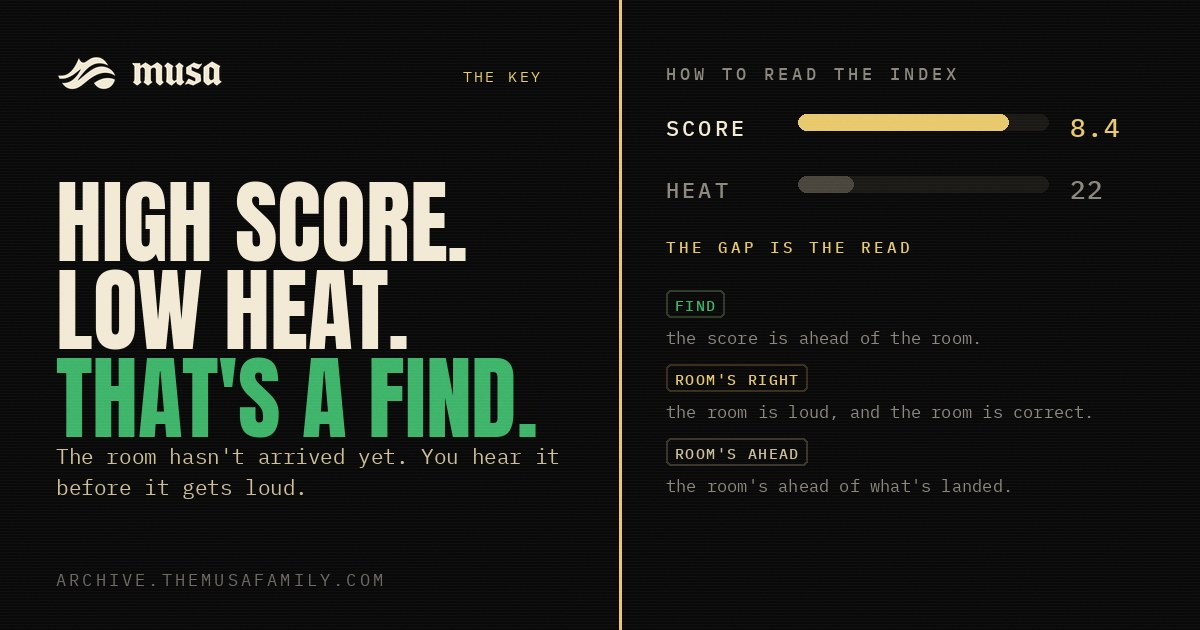
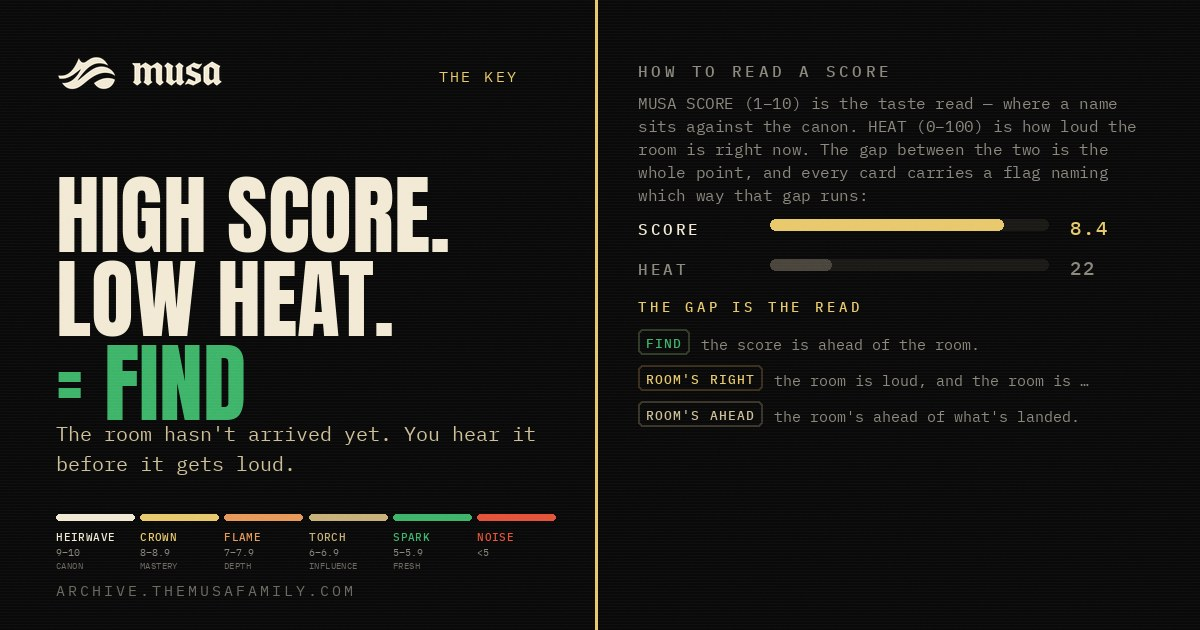
THE KEY card carries the whole key, hero payoff is = FIND
The card is slide two behind an entry post, so it has to survive being the
only thing a stranger reads. It now carries the full key in the site's own
wording rather than an abridged version of it:

- hero payoff is now = FIND, in the same green as the FIND chip, so a swipe
  reads as an equation resolving rather than a sentence. Scores posted are
  overwhelmingly high, so the reader should land on the compliment.
- adds the MUSA SCORE / HEAT definitions verbatim from THE KEY in index.html,
  the NOISE floor and BENCHMARK line, and the six-tier ladder drawn as a
  colour ladder so the score on the card in front of it lands somewhere.
- keeps the drawn score-vs-heat gap and all three flag glosses.
- the OG twin gains the definitions and the tier ladder to match.
- share.py: pinned block prose says the card is the whole key.

diff --git a/share/index.html b/share/index.html
@@ -175,7 +175,7 @@ footer b{font-family:var(--mono);font-size:9px;color:#b8b09c;letter-spacing:.2em
   </a>
   <div class="kbody">
     <div class="klab">THE KEY · SLIDE TWO</div>
-    <div class="ktxt">Save this and run it behind any card. <b>A high score sitting on low heat is a FIND</b> — the work already holds up, the room hasn't arrived, and you're getting put onto it before it gets loud. That gap is the whole board.</div>
+    <div class="ktxt">Save this and run it behind any card — it carries the whole key: score, heat, all three flags and the tier ladder. <b>High score, low heat = FIND</b>: the work already holds up, the room hasn't arrived, and you're getting put onto it before it gets loud. That gap is the whole board.</div>
     <div class="kacts">
       <a href="/cards/the-key-sq.jpg" download="musa-the-key-sq.jpg">SAVE 1080×1350</a>
       <a href="/cards/the-key-og.jpg" download="musa-the-key-og.jpg">SAVE 1200×630</a>

diff --git a/build/cards.py b/build/cards.py
@@ -371,11 +371,33 @@ def _save(im, out):
 # premise cold: the gap between SCORE and HEAT is the read, and a high score
 # sitting on low heat is the point of the whole board.
 
+
+# ── THE KEY card ────────────────────────────────────────────────────────────
+# The whole key, carried on one saveable image. Slide two behind any entry
+# card: a reader who has never seen the board should be able to swipe once and
+# understand that a FIND is the compliment, not the consolation.
+#
+# The prose below is the site's own wording, verbatim from THE KEY in
+# index.html. It is duplicated here on purpose and rebuilt on every publish
+# run, so the card can never drift from the definitions it teaches.
+
 KEY_FLAGS = [
     ("FIND",         GREEN, "#2f3a28", "the score is ahead of the room."),
     ("ROOM'S RIGHT", AMBER, "#3a2f1c", "the room is loud, and the room is correct."),
     ("ROOM'S AHEAD", SAND,  "#3a352a", "the room's ahead of what's landed."),
 ]
+
+KEY_TIERS = [("HEIRWAVE", "9–10", "CANON"), ("CROWN", "8–8.9", "MASTERY"),
+             ("FLAME", "7–7.9", "DEPTH"),   ("TORCH", "6–6.9", "INFLUENCE"),
+             ("SPARK", "5–5.9", "FRESH"),   ("NOISE", "<5", "")]
+
+KEY_PROSE = ("MUSA SCORE (1–10) is the taste read — where a name sits against the canon. "
+             "HEAT (0–100) is how loud the room is right now. The gap between the two is the "
+             "whole point, and every card carries a flag naming which way that gap runs:")
+KEY_FLOOR = ("A score under 5 is NOISE outright. BENCHMARK names the nearest neighbour "
+             "in the 50, so no score floats.")
+KEY_HOOK  = ("The work already holds up. The room hasn't arrived yet. You're getting put "
+             "onto it before it gets loud, which is the entire point of the board.")
 
 
 def _key_masthead(im, d, W, M, y, right="THE KEY", hh=40, wmh=32, fs=17):
@@ -385,24 +407,40 @@ def _key_masthead(im, d, W, M, y, right="THE KEY", hh=40, wmh=32, fs=17):
     tracked(d, (W - M - tw(d, right, fm, 2.4), y + int(hh * 0.3)), right, fm, AMBER, 2.4)
 
 
-def _gapdemo(d, x, y, boxw):
+def _gapdemo(d, x, y, boxw, step=62, labfs=22, valfs=26, barh=16):
     """The premise, drawn rather than argued: a tall score over a short heat bar."""
-    fl = font(MONOM, 22); fv = font(MONOM, 26)
+    fl = font(MONOM, labfs); fv = font(MONOM, valfs)
     barx, barw = x + 132, boxw - 132 - 96
     for i, (lab, val, pct, col) in enumerate(
             [("SCORE", "8.4", 84, AMBER), ("HEAT", "22", 22, MUT)]):
-        yy = y + i * 62
+        yy = y + i * step
         tracked(d, (x, yy + 3), lab, fl, MUT if i else FG, 3.0)
-        d.rounded_rectangle([barx, yy + 4, barx + barw, yy + 20], radius=8, fill="#1c1a16")
+        d.rounded_rectangle([barx, yy + 4, barx + barw, yy + 4 + barh], radius=8, fill="#1c1a16")
         fw = int(barw * pct / 100)
-        d.rounded_rectangle([barx, yy + 4, barx + fw, yy + 20], radius=8,
+        d.rounded_rectangle([barx, yy + 4, barx + fw, yy + 4 + barh], radius=8,
                             fill=AMBER if i == 0 else "#4a463d")
         tracked(d, (barx + barw + 22, yy), val, fv, col, 1.4)
-    return y + 124
+    return y + step * 2
+
+
+def _tierladder(d, x, y, w, nfs=13, rfs=12, dfs=11, gap=9):
+    """The six tiers as a ladder, so the score on the card lands somewhere."""
+    n = len(KEY_TIERS)
+    seg = (w - gap * (n - 1)) / n
+    fn, fr, fd = font(MONOM, nfs), font(MONO, rfs), font(MONO, dfs)
+    for i, (name, rng, desc) in enumerate(KEY_TIERS):
+        sx = int(x + i * (seg + gap))
+        d.rounded_rectangle([sx, y, sx + int(seg), y + 6], radius=3,
+                            fill=TIER_COLOR[name])
+        tracked(d, (sx, y + 15), name, fn, TIER_COLOR[name], 0.9)
+        d.text((sx, y + 15 + nfs + 5), rng, font=fr, fill=MUT)
+        if desc:
+            d.text((sx, y + 15 + nfs + 5 + rfs + 4), desc, font=fd, fill=MUT2)
+    return y + 15 + nfs + 5 + rfs + 4 + dfs
 
 
 def keycard(out, W=1080, H=1350):
-    M = 68
+    M = 64
     im = Image.new("RGB", (W, H), BG)
     d = ImageDraw.Draw(im)
     boxw = W - 2 * M
@@ -410,39 +448,53 @@ def keycard(out, W=1080, H=1350):
     _key_masthead(im, d, W, M, M)
     d.line([(M, M + 74), (W - M, M + 74)], fill=AMBER, width=3)
 
-    y = M + 118
-    tracked(d, (M, y), "HOW TO READ THE INDEX", font(MONOM, 21), MUT, 4.6)
+    y = M + 108
+    tracked(d, (M, y), "HOW TO READ A SCORE", font(MONOM, 20), MUT, 4.6)
 
-    # Hero. Anton, tight leading, the payoff line in green.
-    y += 58
-    fh = font(ANTON, 140)
-    for line, col in [("HIGH SCORE.", FG), ("LOW HEAT.", FG), ("THAT'S A FIND.", GREEN)]:
+    # Hero. Anton, tight leading, the payoff line in green — the same green as
+    # the FIND chip further down, so the eye ties the two together unprompted.
+    y += 44
+    fh = font(ANTON, 106)
+    for line, col in [("HIGH SCORE.", FG), ("LOW HEAT.", FG), ("= FIND", GREEN)]:
         d.text((M, y), line, font=fh, fill=col)
-        y += 132
+        y += 94
 
-    y += 46
-    fb = font(MONO, 27)
-    body = ("The work already holds up. The room hasn't arrived yet. "
-            "You get put onto it before it gets loud, which is the entire point of the board.")
-    for ln in wrap(d, body, fb, boxw, 4):
-        d.text((M, y), ln, font=fb, fill=SAND); y += 40
+    y += 24
+    fb = font(MONO, 23)
+    for ln in wrap(d, KEY_HOOK, fb, boxw, 3):
+        d.text((M, y), ln, font=fb, fill=SAND); y += 32
 
-    # Draw the gap so it reads without the paragraph.
-    y += 34
-    d.rounded_rectangle([M, y, W - M, y + 196], radius=10, outline=LINE, width=2)
-    yy = _gapdemo(d, M + 34, y + 34, boxw - 68)
-    tracked(d, (M + 34, yy + 6), "THE GAP IS THE READ", font(MONOM, 19), AMBER, 4.0)
-    y += 196 + 44
+    # The gap drawn, so it reads without the paragraph.
+    y += 26
+    d.rounded_rectangle([M, y, W - M, y + 140], radius=10, outline=LINE, width=2)
+    yy = _gapdemo(d, M + 30, y + 20, boxw - 60, step=48, labfs=19, valfs=23, barh=13)
+    tracked(d, (M + 30, yy + 2), "THE GAP IS THE READ", font(MONOM, 18), AMBER, 4.0)
+    y += 140 + 24
 
-    # The other two calls, so a stranger can read any card in the feed.
+    d.line([(M, y), (W - M, y)], fill=LINE, width=1)
+    y += 22
+
+    fp = font(MONO, 22)
+    for ln in wrap(d, KEY_PROSE, fp, boxw, 4):
+        d.text((M, y), ln, font=fp, fill=MUT); y += 31
+
+    # The three calls, so a stranger can read any card in the feed.
+    y += 16
     fg_ = font(MONO, 22)
     for lab, col, bor, gloss in KEY_FLAGS:
-        endx = chip(d, M, y, lab, col, bor, fs=19, padx=11, pady=8, ls=1.6)
-        d.text((endx + 18, y + 8), gloss, font=fg_, fill=MUT)
-        y += 56
+        endx = chip(d, M, y, lab, col, bor, fs=18, padx=11, pady=8, ls=1.6)
+        d.text((endx + 18, y + 7), gloss, font=fg_, fill=MUT)
+        y += 46
 
-    ff = font(MONO, 20)
-    tracked(d, (M, H - M - 14), "ARCHIVE.THEMUSAFAMILY.COM", ff, MUT2, 3.4)
+    y += 10
+    ff2 = font(MONO, 21)
+    for ln in wrap(d, KEY_FLOOR, ff2, boxw, 2):
+        d.text((M, y), ln, font=ff2, fill=MUT); y += 30
+
+    y = _tierladder(d, M, y + 14, boxw)
+
+    tracked(d, (M, H - M - 16), "ARCHIVE.THEMUSAFAMILY.COM", font(MONO, 19), MUT2, 3.4)
+    assert y < H - M - 22, "key card overflows: content ends at %d" % y
     return _save(grain(scanlines(im, 6)), out)
 
 
@@ -451,37 +503,45 @@ def keycard_og(out, W=1200, H=630):
     M = 56
     im = Image.new("RGB", (W, H), BG)
     d = ImageDraw.Draw(im)
-    split = 620
+    split = 596
     d.line([(split, 0), (split, H)], fill=AMBER, width=3)
 
     _key_masthead(im, d, split - 24, M, M, right="THE KEY", hh=34, wmh=27, fs=15)
 
-    y = M + 96
-    fh = font(ANTON, 92)
-    for line, col in [("HIGH SCORE.", FG), ("LOW HEAT.", FG), ("THAT'S A FIND.", GREEN)]:
+    y = M + 92
+    fh = font(ANTON, 88)
+    for line, col in [("HIGH SCORE.", FG), ("LOW HEAT.", FG), ("= FIND", GREEN)]:
         d.text((M, y), line, font=fh, fill=col)
-        y += 88
+        y += 84
 
-    fb = font(MONO, 21)
-    y += 26
+    fb = font(MONO, 20)
+    y += 20
     for ln in wrap(d, "The room hasn't arrived yet. You hear it before it gets loud.",
                    fb, split - M - 40, 2):
-        d.text((M, y), ln, font=fb, fill=SAND); y += 31
+        d.text((M, y), ln, font=fb, fill=SAND); y += 30
 
-    tracked(d, (M, H - M - 6), "ARCHIVE.THEMUSAFAMILY.COM", font(MONO, 17), MUT2, 3.0)
+    _tierladder(d, M, H - M - 60, split - M - 40, nfs=11, rfs=10, dfs=9, gap=6)
+    tracked(d, (M, H - M + 6), "ARCHIVE.THEMUSAFAMILY.COM", font(MONO, 15), MUT2, 3.0)
 
-    # Right column: the gap, then the three calls.
-    rx = split + 46
+    # Right column: the definitions, the gap, then the three calls.
+    rx = split + 42
     rw = W - rx - M
-    tracked(d, (rx, M + 6), "HOW TO READ THE INDEX", font(MONOM, 17), MUT, 3.8)
-    yy = _gapdemo(d, rx, M + 54, rw)
-    tracked(d, (rx, yy + 2), "THE GAP IS THE READ", font(MONOM, 16), AMBER, 3.4)
+    tracked(d, (rx, M + 4), "HOW TO READ A SCORE", font(MONOM, 16), MUT, 3.8)
 
-    y = yy + 56
-    fg_ = font(MONO, 17)
+    y = M + 36
+    fp = font(MONO, 16)
+    for ln in wrap(d, KEY_PROSE, fp, rw, 5):
+        d.text((rx, y), ln, font=fp, fill=MUT); y += 23
+
+    y += 8
+    yy = _gapdemo(d, rx, y, rw, step=40, labfs=16, valfs=19, barh=11)
+    tracked(d, (rx, yy + 2), "THE GAP IS THE READ", font(MONOM, 14), AMBER, 3.4)
+
+    y = yy + 34
+    fg_ = font(MONO, 15)
     for lab, col, bor, gloss in KEY_FLAGS:
-        chip(d, rx, y, lab, col, bor, fs=15, padx=9, pady=6, ls=1.4)
-        for ln in wrap(d, gloss, fg_, rw, 1):
-            d.text((rx, y + 36), ln, font=fg_, fill=MUT)
-        y += 74
+        endx = chip(d, rx, y, lab, col, bor, fs=13, padx=8, pady=6, ls=1.3)
+        for ln in wrap(d, gloss, fg_, rw - (endx - rx) - 12, 1):
+            d.text((endx + 12, y + 5), ln, font=fg_, fill=MUT)
+        y += 36
     return _save(grain(scanlines(im, 6)), out)

diff --git a/build/share.py b/build/share.py
@@ -179,7 +179,7 @@ footer b{{font-family:var(--mono);font-size:9px;color:#b8b09c;letter-spacing:.2e
   </a>
   <div class="kbody">
     <div class="klab">THE KEY · SLIDE TWO</div>
-    <div class="ktxt">Save this and run it behind any card. <b>A high score sitting on low heat is a FIND</b> — the work already holds up, the room hasn't arrived, and you're getting put onto it before it gets loud. That gap is the whole board.</div>
+    <div class="ktxt">Save this and run it behind any card — it carries the whole key: score, heat, all three flags and the tier ladder. <b>High score, low heat = FIND</b>: the work already holds up, the room hasn't arrived, and you're getting put onto it before it gets loud. That gap is the whole board.</div>
     <div class="kacts">
       <a href="/cards/the-key-sq.jpg" download="musa-the-key-sq.jpg">SAVE 1080×1350</a>
       <a href="/cards/the-key-og.jpg" download="musa-the-key-og.jpg">SAVE 1200×630</a>
